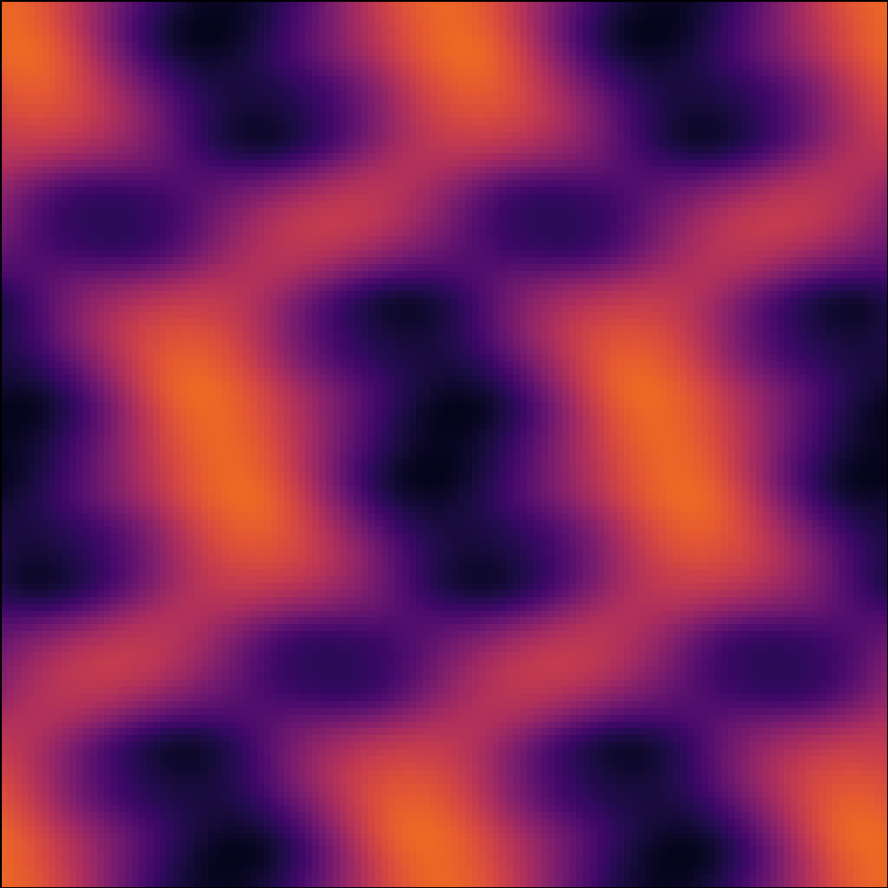
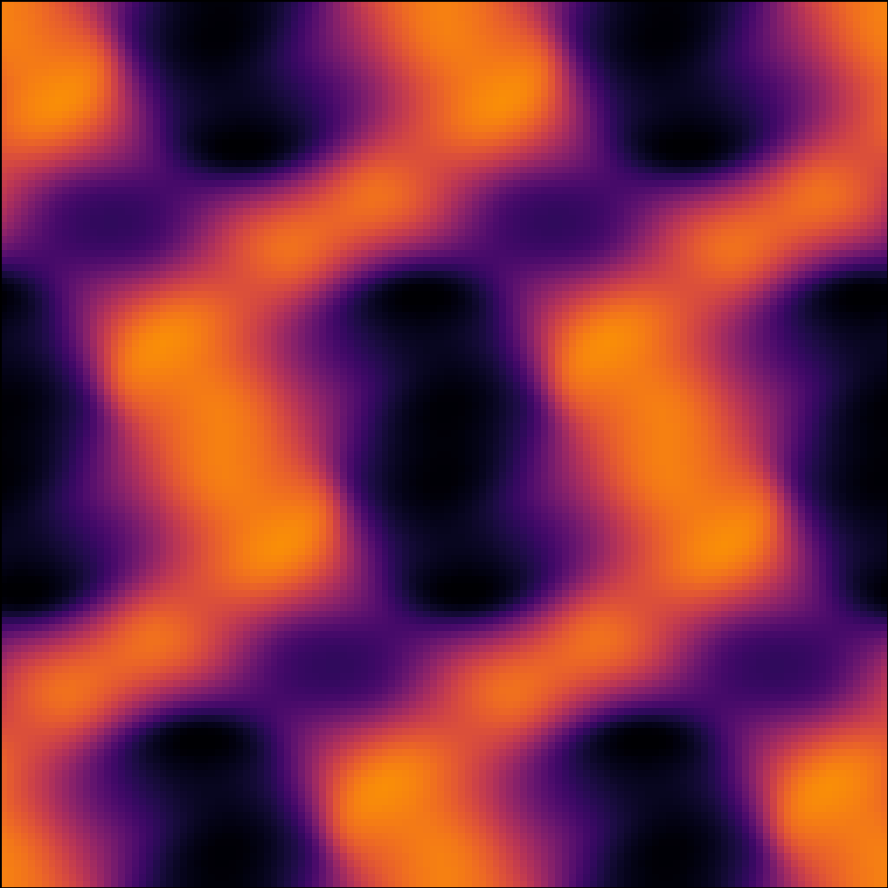
bug fixes

diff --git a/quantum.py b/quantum.py
@@ -112,11 +112,21 @@ def run_simulation(state):
         # i d(psi)/dt = (i/2)*(2 A.nabla + nabla.A) psi
         grad_psi_x, grad_psi_y = grad(psi)
         div_A = div(Ax, Ay)
-        psi = psi * jnp.exp(
-            -dt * (Ax * grad_psi_x + Ay * grad_psi_y + 0.5 * div_A)
-        )  # XXX
+        # psi = psi * jnp.exp(
+        #    -dt * (Ax * grad_psi_x + Ay * grad_psi_y + 0.5 * div_A)
+        # )
         # do forward euler instead:
-        # psi = psi + dt * (Ax * grad_psi_x + Ay * grad_psi_y + 0.5 * div_A) * 1j * psi
+        psi = psi - dt * (Ax * grad_psi_x + Ay * grad_psi_y + 0.5 * div_A * psi)
+
+        # do rk2 instead
+        # def L_adv(psi, Ax, Ay):
+        #    gx, gy = grad(psi)
+        #    return -(Ax*gx + Ay*gy + 0.5*div(Ax, Ay)*psi)
+
+        # k1 = L_adv(psi, Ax, Ay)
+        # psi1 = psi + 0.5*dt*k1
+        # k2 = L_adv(psi1, Ax, Ay)
+        # psi = psi + dt*k2
 
         state["psi"] = psi
         return state
@@ -134,9 +144,18 @@ def run_simulation(state):
         rho = jnp.abs(psi) ** 2
         # v = -grad(phi) + A
         # psi = R * exp(i theta) = sqrt(rho) * exp(-i * m_per_hbar * phi)
-        theta = jnp.angle(psi)  # XXX
-        phi = -theta / m_per_hbar
-        grad_phi_x, grad_phi_y = grad(phi)
+
+        # theta = jnp.angle(psi)  # XXX
+        # phi = -theta / m_per_hbar
+        # grad_phi_x, grad_phi_y = grad(phi)
+
+        gx, gy = grad(psi)
+        inv = 1.0 / (psi + 1e-12)
+        grad_theta_x = jnp.imag(gx * inv)
+        grad_theta_y = jnp.imag(gy * inv)
+
+        grad_phi_x = -(1.0 / m_per_hbar) * grad_theta_x
+        grad_phi_y = -(1.0 / m_per_hbar) * grad_theta_y
         vx = -grad_phi_x + Ax
         vy = -grad_phi_y + Ay
 
@@ -169,8 +188,9 @@ def set_up_state():
 
     # solve div(v) = -nabla^2 phi for phi
     div_v = div(vx, vy)
-    phi_k = -1j * div_v / (k_sq + (k_sq == 0))
-    phi = jnp.fft.ifftn(phi_k).real
+    div_v_hat = jnp.fft.fftn(div_v)
+    phi_hat = -div_v_hat / (k_sq + (k_sq == 0))
+    phi = jnp.fft.ifftn(phi_hat).real
     theta = -m_per_hbar * phi
 
     # v = -grad(phi) + A
